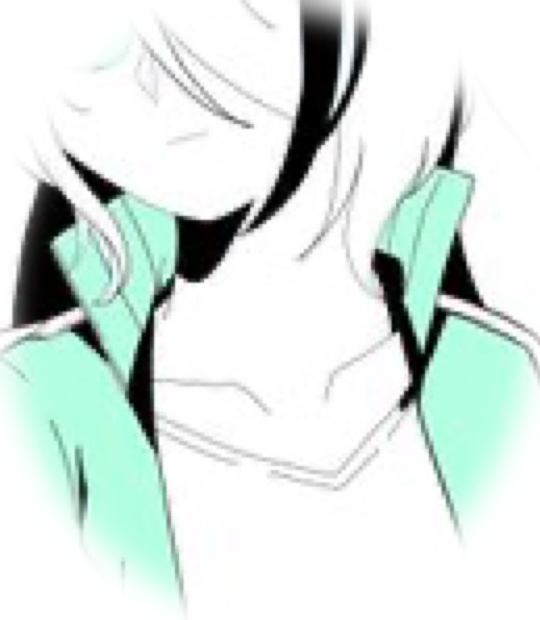
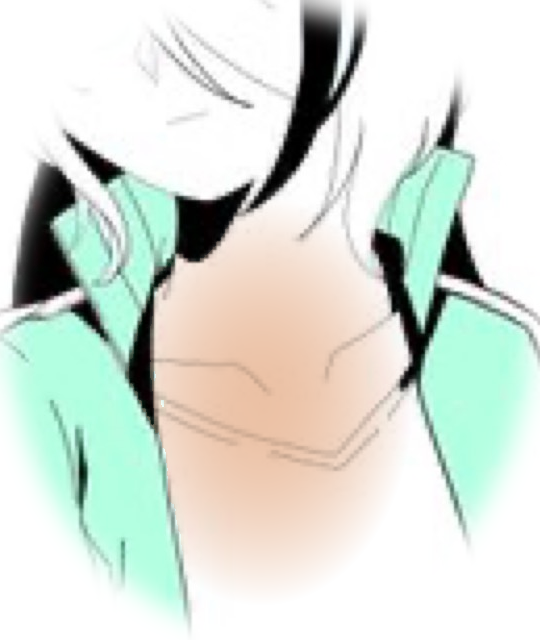
めりさん: 口の開いたフードにイラストの顔
閉じた球をやめ、正面が開くフードと裾の広がるマントにした。
顔は添付イラストから切り抜き。トップからギャラリーと管理者追加へ行ける。

diff --git a/src/game/ghosts.ts b/src/game/ghosts.ts
@@ -48,7 +48,7 @@ export const GHOST_CATALOG: {
     kind: "meri",
     no: 6,
     name: "めりさん",
-    note: "祠の側に立つ。紫のヴェールと緑の眼。ゆきおんな流用。罰は、まだない。",
+    note: "祠の側に漂う。青いフードのおばけ。顔はイラスト。罰は、まだない。",
   },
 ];
 
@@ -553,26 +553,125 @@ export function createYukiOnna() {
   const hair = new THREE.Mesh(new THREE.SphereGeometry(0.24, 14, 12), hairC);
   hair.position.set(-0.02, 0.08, -0.04);
   hair.scale.set(1.15, 1.05, 1.05);
-  const card = faceCard("/ghosts/yuki-face.png", 0.62, 0.72, "yuki-face");
+  const card = faceCard("/ghosts/yuki-face.png?v=2", 0.58, 0.69, "yuki-face");
   card.position.set(0, 0.1, 0.2);
   head.add(hair, card);
   return g;
 }
 
+export function poseMeri(g: THREE.Object3D, t: number) {
+  // 口をカメラに向けたまま、裾だけが息をする。
+  const hips = g.getObjectByName("pipe-hips");
+  const armL = g.getObjectByName("pipe-arm-l");
+  const armR = g.getObjectByName("pipe-arm-r");
+  if (!hips) return;
+  const s = Math.sin(t * 1.1);
+  hips.position.y = 0.06 + s * 0.04;
+  hips.rotation.set(0, 0, Math.sin(t * 0.7) * 0.02);
+  if (armL) armL.rotation.set(0.05 + s * 0.06, 0, 0.08);
+  if (armR) armR.rotation.set(0.05 - s * 0.06, 0, -0.08);
+}
+
+function meriCloakGeo() {
+  // 絵のマント：首は細く、裾は広がる。
+  const pts = [
+    new THREE.Vector2(0.1, 0.02),
+    new THREE.Vector2(0.32, 0.08),
+    new THREE.Vector2(0.46, 0.2),
+    new THREE.Vector2(0.5, 0.4),
+    new THREE.Vector2(0.44, 0.62),
+    new THREE.Vector2(0.32, 0.82),
+    new THREE.Vector2(0.2, 0.96),
+  ];
+  return new THREE.LatheGeometry(pts, 48);
+}
+
+function meriHoodGeo(inset = 0) {
+  // 側面のC字をY回りに開き、正面を口にする。閉じた球にはしない。
+  const pts = [
+    new THREE.Vector2(0.22 - inset, 0.92),
+    new THREE.Vector2(0.44 - inset, 1.0),
+    new THREE.Vector2(0.54 - inset, 1.16),
+    new THREE.Vector2(0.52 - inset, 1.36),
+    new THREE.Vector2(0.34 - inset, 1.52),
+    new THREE.Vector2(0.12 - inset * 0.4, 1.48),
+    new THREE.Vector2(0.16 - inset * 0.3, 1.28),
+    new THREE.Vector2(0.26 - inset * 0.2, 1.1),
+  ].map((p) => new THREE.Vector2(Math.max(0.04, p.x), p.y));
+  const open = 1.95;
+  return new THREE.LatheGeometry(pts, 32, open / 2, Math.PI * 2 - open);
+}
+
 export function createMeriSan() {
-  const faceC = mat(0xfffdf8, { roughness: 0.48 });
-  const coat = mat(0x3a5bb8, { roughness: 0.55, emissive: 0x1a2a68, emissiveIntensity: 0.1 });
-  const coatDark = mat(0x2a3f8a, { roughness: 0.58 });
-  const shoeC = mat(0xf4f0ea, { roughness: 0.7 });
-  const hoodC = mat(0x5a4a88, { roughness: 0.72 });
-  const { g, head } = chibiBody(coat, coatDark, faceC, shoeC);
+  // 添付イラスト：口の開いた青フード、緑の眼、裾の広がるマント。
+  const skin = mat(0xecd4bc, { roughness: 0.48 });
+  const cloth = mat(0x5b688a, {
+    roughness: 0.58,
+    emissive: 0x1a2436,
+    emissiveIntensity: 0.12,
+    side: THREE.DoubleSide,
+  });
+  const lining = mat(0xd5dae4, {
+    roughness: 0.46,
+    side: THREE.DoubleSide,
+  });
+  const g = new THREE.Group();
   g.name = "meri-san";
   g.userData.kind = "meri";
-  const hood = new THREE.Mesh(new THREE.SphereGeometry(0.26, 14, 12), hoodC);
-  hood.position.set(0, 0.12, -0.04);
-  hood.scale.set(1.2, 0.95, 1.05);
-  const card = faceCard("/ghosts/meri-face.png", 0.78, 0.62, "meri-face");
-  card.position.set(0, 0.12, 0.22);
-  head.add(hood, card);
+
+  const hips = new THREE.Group();
+  hips.name = "pipe-hips";
+  hips.add(new THREE.Mesh(meriCloakGeo(), cloth));
+
+  const neck = new THREE.Mesh(new THREE.CylinderGeometry(0.09, 0.1, 0.12, 12), skin);
+  neck.position.y = 0.98;
+  hips.add(neck);
+
+  const hood = new THREE.Mesh(meriHoodGeo(0), cloth);
+  const inner = new THREE.Mesh(meriHoodGeo(0.045), lining);
+  hips.add(hood, inner);
+
+  const head = new THREE.Group();
+  head.name = "pipe-head";
+  head.position.set(0, 1.22, 0.22);
+  const skull = new THREE.Mesh(new THREE.SphereGeometry(0.2, 16, 14), skin);
+  skull.position.set(0, 0.02, -0.04);
+  skull.scale.set(1.05, 0.95, 0.9);
+  const rim = new THREE.Mesh(new THREE.TorusGeometry(0.26, 0.022, 8, 24), lining);
+  rim.position.z = 0.02;
+  const card = new THREE.Mesh(
+    new THREE.PlaneGeometry(0.46, 0.58),
+    new THREE.MeshBasicMaterial({
+      map: loadFace("/ghosts/meri-face.png?v=10"),
+      transparent: true,
+      alphaTest: 0.14,
+      toneMapped: false,
+      depthWrite: true,
+    }),
+  );
+  card.name = "meri-face";
+  card.position.z = 0.06;
+  const lamp = new THREE.PointLight(0xc8d6e8, 0.35, 2.8, 2);
+  lamp.name = "ghostLamp";
+  lamp.position.set(0, 0.05, 0.12);
+  lamp.visible = false;
+  head.add(skull, rim, card, lamp);
+
+  const torso = new THREE.Group();
+  torso.name = "pipe-torso";
+  const mkHand = (side: number) => {
+    const arm = new THREE.Group();
+    arm.name = side < 0 ? "pipe-arm-l" : "pipe-arm-r";
+    arm.position.set(side * 0.46, 0.5, 0.1);
+    const hand = new THREE.Mesh(new THREE.SphereGeometry(0.05, 10, 8), skin);
+    arm.add(hand);
+    return arm;
+  };
+  torso.add(mkHand(-1), mkHand(1));
+
+  hips.add(head, torso);
+  g.add(hips);
   return g;
 }
+
+

diff --git a/src/components/ghost-gallery.tsx b/src/components/ghost-gallery.tsx
@@ -5,7 +5,7 @@
 // @ts-nocheck
 import { useEffect, useRef, useState } from "react";
 import * as THREE from "three";
-import { createGhost, GHOST_CATALOG, setBagFace, posePipeTaiso, type GhostKind } from "@/game/ghosts";
+import { createGhost, GHOST_CATALOG, setBagFace, posePipeTaiso, poseMeri, type GhostKind } from "@/game/ghosts";
 
 export function GhostGallery({ onClose }: { onClose: () => void }) {
   const canvasRef = useRef<HTMLCanvasElement>(null);
@@ -73,15 +73,23 @@ export function GhostGallery({ onClose }: { onClose: () => void }) {
         faceI += 1;
         setBagFace(ghost, faceI);
       }
-      if (lastKind === "pipe" || lastKind === "yuki" || lastKind === "meri") {
+      if (lastKind === "pipe" || lastKind === "yuki") {
         posePipeTaiso(ghost, t);
         ghost.rotation.y = t * 0.35;
         ghost.position.y = 0;
         ghost.rotation.z = 0;
+        camera.lookAt(0, 0.75, 0);
+      } else if (lastKind === "meri") {
+        poseMeri(ghost, t);
+        ghost.rotation.y = Math.sin(t * 0.45) * 0.28;
+        ghost.position.y = 0;
+        ghost.rotation.z = 0;
+        camera.lookAt(0, 0.95, 0);
       } else {
         ghost.rotation.y = t * 0.65;
         ghost.position.y = Math.abs(Math.sin(t * 3.1)) * 0.14;
         ghost.rotation.z = Math.sin(t * 3.1) * 0.1;
+        camera.lookAt(0, 0.75, 0);
       }
       const w = canvas.clientWidth;
       const h = canvas.clientHeight;

diff --git a/src/components/echoes-app.tsx b/src/components/echoes-app.tsx
@@ -270,6 +270,23 @@ export function EchoesApp() {
                 >
                   配信規約（ビデオポリシー）
                 </Link>
+                {isAdmin ? (
+                  <>
+                    <button
+                      type="button"
+                      className="btn-ghost hit hit-ui inline-flex h-11 shrink-0 items-center whitespace-nowrap px-4"
+                      onClick={() => setGhostGallery(true)}
+                    >
+                      ギャラリー
+                    </button>
+                    <Link
+                      to="/admin"
+                      className="btn-ghost hit hit-ui inline-flex h-11 shrink-0 items-center whitespace-nowrap px-4"
+                    >
+                      管理者追加
+                    </Link>
+                  </>
+                ) : null}
               </div>
             </div>
 

diff --git a/src/routes/guide.tsx b/src/routes/guide.tsx
@@ -95,7 +95,7 @@ function Guide() {
         <section className="border-line mt-5 border-t pt-5">
           <h2 className="font-display text-lg">めりさん</h2>
           <p className="text-muted mt-2 text-sm leading-relaxed">
-            祠の側に立つ。紫のヴェールと緑の眼。罰は、まだない。図鑑の六番である。
+            祠の側に漂う。青いフードそのものが器である。顔はイラスト。罰は、まだない。図鑑の六番である。
           </p>
         </section>
 

diff --git a/src/game/echoes.ts b/src/game/echoes.ts
@@ -13,6 +13,7 @@ import {
   createAkamisoLite,
   createPipeYousei,
   posePipeTaiso,
+  poseMeri,
   createYukiOnna,
   createMeriSan,
 } from "./ghosts";
@@ -1084,7 +1085,7 @@ export class EchoesEngine {
     const t = performance.now() * 0.001;
     const pl = this.yawObj.position;
     for (const g of this.meris) {
-      posePipeTaiso(g, t);
+      poseMeri(g, t);
       const d = Math.hypot(pl.x - g.position.x, pl.z - g.position.z);
       g.visible = this.mode !== "play" || d < 28;
     }
